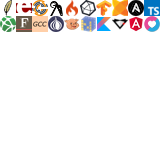
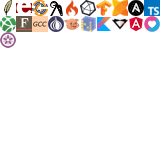
Add Jasmine documentation

Changed region(s): [[0.0, 0.1875, 0.125, 0.3125]]

diff --git a/assets/stylesheets/global/_icons.scss b/assets/stylesheets/global/_icons.scss
@@ -171,3 +171,4 @@
 ._icon-padrino:before       { background-position: -7rem -1rem; @extend %doc-icon-2; }
 ._icon-angular:before       { background-position: -8rem -1rem; @extend %doc-icon-2; }
 ._icon-love:before          { background-position: -9rem -1rem; @extend %doc-icon-2; }
+._icon-jasmine:before       { background-position: 0 -2rem; @extend %doc-icon-2; }

diff --git a/assets/stylesheets/pages/_simple.scss b/assets/stylesheets/pages/_simple.scss
@@ -28,6 +28,7 @@
 ._haxe,
 ._immutable,
 ._influxdata,
+._jasmine,
 ._jest,
 ._less,
 ._lodash,

diff --git a/lib/docs/filters/jasmine/entries.rb b/lib/docs/filters/jasmine/entries.rb
@@ -1,0 +1,27 @@
+module Docs
+  class Jasmine
+    class EntriesFilter < Docs::EntriesFilter
+      def get_name
+        name = at_css('h1').content.strip
+        name.remove! %r{\A\w+:\s}
+        name
+      end
+
+      def get_type
+        at_css('h1').content.strip
+      end
+
+      def additional_entries
+        css('h3[id]').each_with_object [] do |node, entries|
+          name = node.content.strip
+          next if name.start_with?('new ')
+          static = name.sub! '(static) ', ''
+          name.sub! %r{\(.*\)}, '()'
+          name.remove! %r{\s.*}
+          name.prepend "#{self.name}#{static ? '.' : '#'}" unless slug == 'global'
+          entries << [name, node['id']]
+        end
+      end
+    end
+  end
+end

diff --git a/lib/docs/filters/jasmine/clean_html.rb b/lib/docs/filters/jasmine/clean_html.rb
@@ -1,0 +1,30 @@
+module Docs
+  class Jasmine
+    class CleanHtmlFilter < Filter
+      def call
+        @doc = at_css('.docs')
+
+        at_css('h1').content = 'Jasmine' if root_page?
+
+        css('header', 'article', 'section:not([class])', 'div.description').each do |node|
+          node.before(node.children).remove
+        end
+
+        css('h3.subsection-title').each do |node|
+          node.name = 'h2'
+        end
+
+        css('h4.name').each do |node|
+          node.name = 'h3'
+        end
+
+        css('pre').each do |node|
+          node.content = node.content
+          node['data-language'] = 'javascript'
+        end
+
+        doc
+      end
+    end
+  end
+end

diff --git a/lib/docs/scrapers/jasmine.rb b/lib/docs/scrapers/jasmine.rb
@@ -1,0 +1,21 @@
+module Docs
+  class Jasmine < UrlScraper
+    self.type = 'jasmine'
+    self.release = '2.6.1'
+    self.base_url = 'https://jasmine.github.io/api/2.6/'
+    self.root_path = 'index.html'
+    self.links = {
+      home: 'https://jasmine.github.io/',
+      code: 'https://github.com/jasmine/jasmine'
+    }
+
+    html_filters.push 'jasmine/clean_html', 'jasmine/entries'
+
+    options[:container] = '.main-content'
+
+    options[:attribution] = <<-HTML
+      &copy; 2008&ndash;2017 Pivotal Labs<br>
+      Licensed under the MIT License.
+    HTML
+  end
+end
